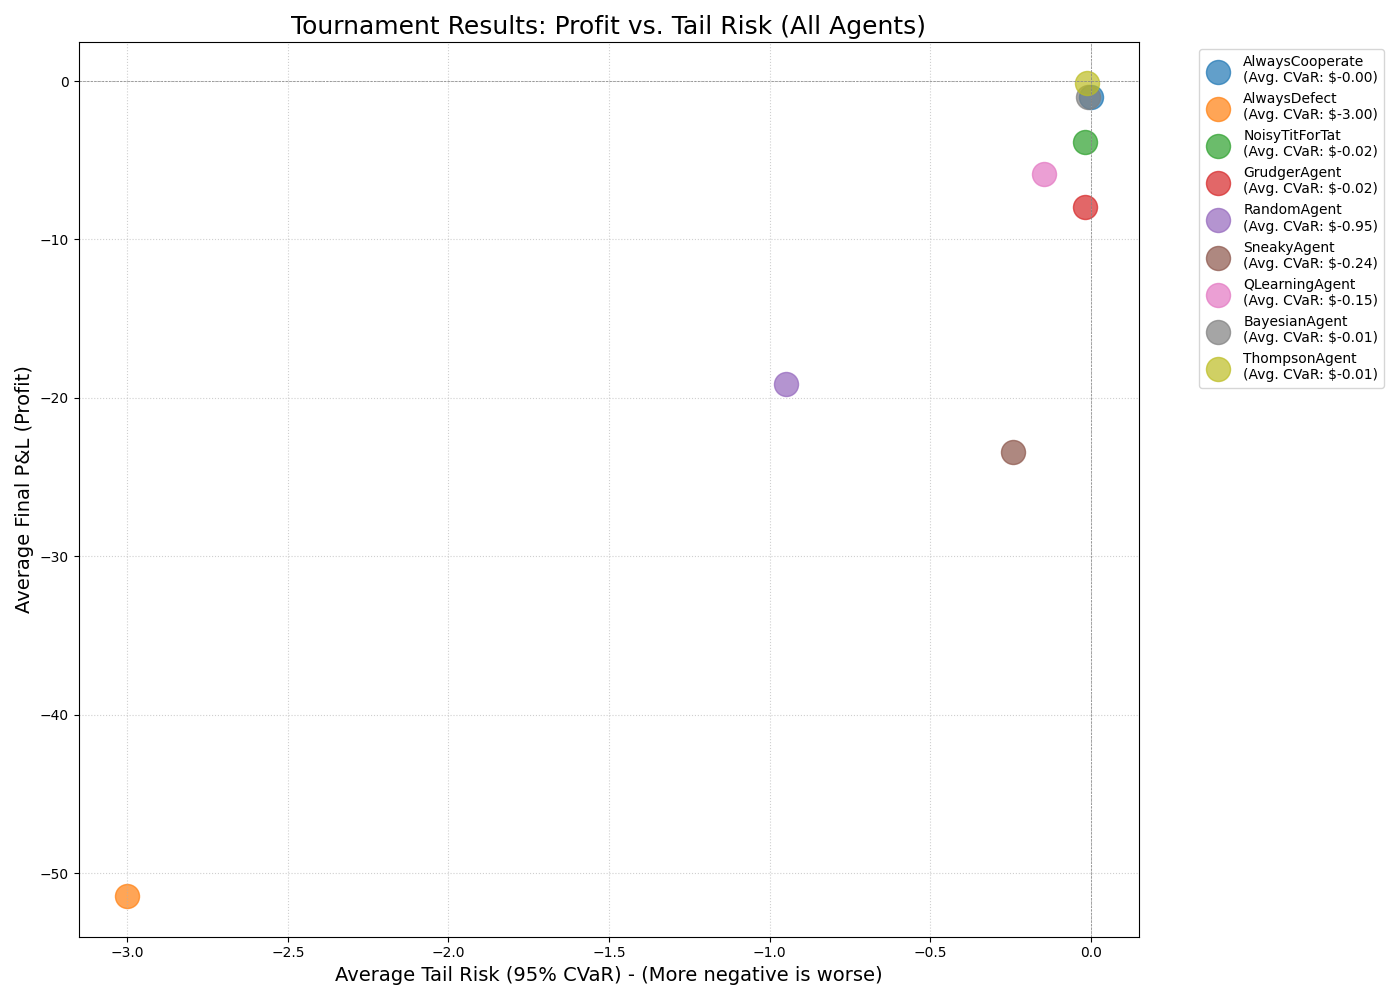
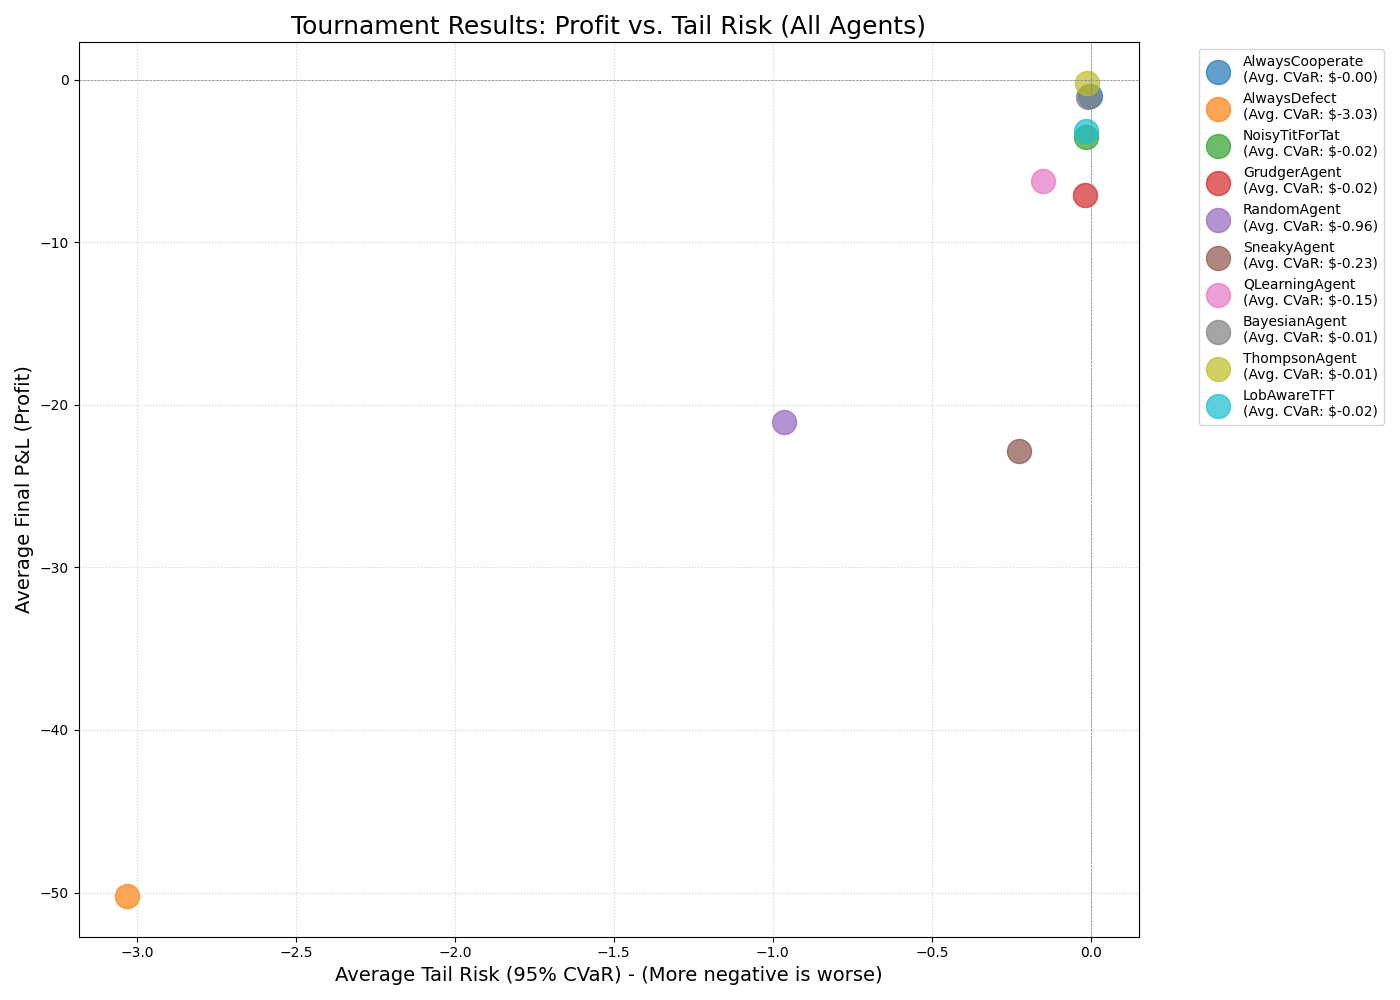
Feat: Implement full EvolutionarySimulator and run final experiment
This commit replaces the static round-robin tournament with a dynamic evolutionary simulation.

The new 'run_evolution.py' script introduces the 'EvolutionarySimulator' class, which runs a full tournament in each generation and uses the Replicator Equation to update population proportions over time.

- Implements a 'shifted' fitness (f' = f - f_min + 0.1) to correctly handle negative P&L values, preventing population collapse.
- Adds a 'mutation_rate' to the replicator dynamics to prevent deterministic extinction and ensure no strategy permanently dies.
- Adds the new 'LobAwareTFT' agent to the master competitor list.
- Generates the final 'evolution_plot.png' showing the population dynamics over 100 generations, which is the final result for the paper.

diff --git a/run_evolution.py b/run_evolution.py
@@ -1,0 +1,215 @@
+import numpy as np
+import matplotlib.pyplot as plt
+import pandas as pd
+import time
+import itertools
+from collections import namedtuple, defaultdict
+from abc import ABC, abstractmethod
+from scipy.stats import norm
+from main import (
+    Agent,
+    MarketSimulator,
+    Action,
+    NoisyTitForTat,
+    GrudgerAgent,
+    AlwaysDefect,
+    AlwaysCooperate,
+    BayesianAgent,
+    QLearningAgent,
+    ThompsonAgent,
+    RandomAgent,
+    SneakyAgent,
+    LobAwareTFT
+)
+try:
+    from fast_lob import LimitOrderBook
+    print("Successfully imported C++ LOB engine (fast_lob).")
+except ImportError:
+    print("FATAL ERROR: C++ (fast_lob) module not found.")
+    print("Please build the C++ module by running: pip install .")
+    exit()
+
+
+# -----------------------------------------------------------------
+# --- 3. THE EVOLUTIONARY SIMULATOR CLASS
+# -----------------------------------------------------------------
+
+class EvolutionarySimulator:
+    
+    def __init__(self, agent_classes: list, initial_lob_class, tick_size: int, start_price: int):
+        
+        self.agent_classes = agent_classes
+        self.lob_class = initial_lob_class
+        self.tick_size = tick_size
+        self.start_price = start_price
+        
+        self.population_proportions = {}
+        num_agents = len(agent_classes)
+        initial_share = 1.0 / (num_agents + 1e-9)
+        
+        for agent_class in agent_classes:
+            name = agent_class.__name__
+            self.population_proportions[name] = initial_share
+            
+        self.population_history = [self.population_proportions.copy()]
+        
+        self.agent_names = [cls.__name__ for cls in agent_classes]
+        self.agent_class_map = {cls.__name__: cls for cls in agent_classes}
+        base_agents = [cls for cls in agent_classes if cls not in [BayesianAgent, QLearningAgent, ThompsonAgent, LobAwareTFT]]
+        
+        self.suspect_zoo = [cls(agent_id=f"suspect_{cls.__name__}", latency=10) 
+                            for cls in base_agents]
+        
+        self.thompson_portfolio = [cls(agent_id=f"thompson_{cls.__name__}", latency=10) for cls in base_agents]
+
+    def _run_generation(self, rounds_per_matchup: int) -> dict:
+        
+        fitness_scores = {name: 0.0 for name in self.agent_names}
+        all_matchups = list(itertools.combinations(self.agent_names, 2))
+        
+        for (name_A, name_B) in all_matchups:
+            
+            (pnl_A, _), (pnl_B, _) = self._run_single_matchup(name_A, name_B, rounds_per_matchup)
+            
+            proportion_B = self.population_proportions[name_B]
+            fitness_scores[name_A] += pnl_A * proportion_B
+            
+            proportion_A = self.population_proportions[name_A]
+            fitness_scores[name_B] += pnl_B * proportion_A
+            
+        return fitness_scores
+
+    
+    def _run_single_matchup(self, name_A: str, name_B: str, num_rounds: int) -> tuple:
+        
+        class_A = self.agent_class_map[name_A]
+        class_B = self.agent_class_map[name_B]
+
+        agent_A, agent_B = None, None
+
+        if class_A == BayesianAgent:
+            agent_A = BayesianAgent(agent_id="Agent_A", latency=7.0, sus_agents=self.suspect_zoo)
+        elif class_A == ThompsonAgent:
+            agent_A = ThompsonAgent(agent_id="Agent_A", latency=5.0, sub_agents=self.thompson_portfolio)
+        elif class_A == QLearningAgent:
+            agent_A = QLearningAgent(agent_id="Agent_A", latency=15.0)
+        else: 
+            agent_A = class_A(agent_id="Agent_A", latency=10.0)
+
+        if class_B == BayesianAgent:
+            agent_B = BayesianAgent(agent_id="Agent_B", latency=7.0, sus_agents=self.suspect_zoo)
+        elif class_B == ThompsonAgent:
+            agent_B = ThompsonAgent(agent_id="Agent_B", latency=5.0, sub_agents=self.thompson_portfolio)
+        elif class_B == QLearningAgent:
+            agent_B = QLearningAgent(agent_id="Agent_B", latency=15.0)
+        else: 
+            agent_B = class_B(agent_id="Agent_B", latency=10.0)
+        
+        lob = self.lob_class()
+        simulator = MarketSimulator(
+            agents=[agent_A, agent_B],
+            book=lob,
+            tick_size=self.tick_size,
+            start_price=self.start_price
+        )
+        
+        simulator.run_simulation(num_rounds=num_rounds)
+        pnl_A = sum(simulator.pnl_history["Agent_A"]) / 100.0
+        pnl_B = sum(simulator.pnl_history["Agent_B"]) / 100.0
+        
+        return (pnl_A, 0.0), (pnl_B, 0.0)
+
+
+    def run(self, num_generations: int, rounds_per_matchup: int, mutation_rate: float = 0.01):
+        print(f"--- Starting Evolutionary Simulation ---")
+        print(f"Generations: {num_generations}, Rounds: {rounds_per_matchup}, Mutation: {mutation_rate*100}%")
+        
+        for gen in range(num_generations):
+            fitness_map = self._run_generation(rounds_per_matchup)
+            min_fitness = min(fitness_map.values())
+            shifted_fitness_map = {name: (fitness - min_fitness + 0.1) for name, fitness in fitness_map.items()}
+            avg_pop_fitness = sum(
+                shifted_fitness_map[name] * self.population_proportions[name]
+                for name in self.agent_names
+            )
+            new_proportions = {}
+            for name in self.agent_names:
+                shifted_fitness = shifted_fitness_map.get(name, 0.1)
+                old_proportion = self.population_proportions[name]
+                
+                if avg_pop_fitness == 0:
+                    new_proportions[name] = old_proportion
+                else:
+                    new_proportions[name] = old_proportion * (shifted_fitness / avg_pop_fitness)
+            mutated_proportions = {}
+            num_agents = len(self.agent_names)
+            mutation_share_per_agent = mutation_rate / num_agents
+
+            for name in self.agent_names:
+                taxed_proportion = new_proportions.get(name, 0.0) * (1 - mutation_rate)
+                mutated_proportions[name] = taxed_proportion + mutation_share_per_agent
+            total = sum(mutated_proportions.values())
+            for name in mutated_proportions:
+                mutated_proportions[name] /= total
+            self.population_proportions = mutated_proportions
+            self.population_history.append(mutated_proportions.copy())
+            
+            if (gen + 1) % (num_generations // 10 or 1) == 0:
+                print(f"Generation {gen+1}/{num_generations} complete.")
+        
+        print("Evolutionary simulation complete.")
+
+
+# -----------------------------------------------------------------
+# --- 4. MAIN SCRIPT TO RUN THE EVOLUTION
+# -----------------------------------------------------------------
+if __name__ == "__main__":
+    start_time = time.time()
+    all_agent_classes = [
+        AlwaysCooperate,
+        AlwaysDefect,
+        NoisyTitForTat,
+        GrudgerAgent,
+        RandomAgent,
+        SneakyAgent,
+        QLearningAgent,
+        BayesianAgent,
+        ThompsonAgent,
+        LobAwareTFT
+    ]
+    evo_sim = EvolutionarySimulator(
+        agent_classes=all_agent_classes,
+        initial_lob_class=LimitOrderBook,
+        tick_size=1,
+        start_price=10000
+    )
+    NUM_GENERATIONS = 100
+    ROUNDS_PER_MATCHUP = 50
+    evo_sim.run(
+        num_generations=NUM_GENERATIONS, 
+        rounds_per_matchup=ROUNDS_PER_MATCHUP,
+        mutation_rate=0.01 # 1% mutation
+    )
+    total_time = time.time() - start_time
+    print(f"\n--- EVOLUTION COMPLETE (Total time: {total_time:.2f}s) ---")
+    history_df = pd.DataFrame(evo_sim.population_history)
+    print("Generating population plot...")
+    plt.figure(figsize=(14, 8))
+    plt.stackplot(
+        history_df.index,
+        [history_df[col] for col in history_df.columns], 
+        labels=history_df.columns
+    )
+    plt.title("Evolution of Agent Population Over Time", fontsize=18)
+    plt.xlabel("Generation", fontsize=14)
+    plt.ylabel("Population Proportion (%)", fontsize=14)
+    plt.legend(bbox_to_anchor=(1.05, 1), loc='upper left')
+    plt.grid(True, linestyle=':', alpha=0.6)
+    plt.tight_layout()
+    plt.savefig("evolution_plot.png")
+    print("Final evolution plot saved as 'evolution_plot.png'.")
+    print("\n--- Final Population ---")
+    final_pop = evo_sim.population_history[-1]
+    sorted_pop = sorted(final_pop.items(), key=lambda item: item[1], reverse=True)
+    for agent_name, proportion in sorted_pop:
+        print(f"  {agent_name}: {proportion * 100:.2f}%")

diff --git a/main.py b/main.py
@@ -235,6 +235,19 @@ class RandomAgent(Agent):
     def learn(self, reward: float, new_lob_state: dict):
         pass
 
+class LobAwareTFT(NoisyTitForTat):
+    """An agent that overrides TFT logic if it detects a market imbalance."""
+    def play(self, lob_state: dict, opponent_last_action: Action = None) -> Action:
+        state = self._get_current_state(lob_state)
+        if state[1] == 'Ask_Heavy':
+            return Action(type='MARKET', price_level=0, size=5)
+        elif state[1] == 'Bid_Heavy':
+            return Action(type='MARKET', price_level=0, size=5)
+        else:
+            return super().play(lob_state, opponent_last_action)
+    def _get_current_state(self, lob_state: dict) -> tuple:
+        return lob_state.get('discretized_state', ('Medium', 'Balanced'))
+
 # --- 4. ADVANCED LEARNING AGENTS ---
 class QLearningAgent(Agent):
     def __init__(self, agent_id: str, latency: float = 0.0, epsilon: float = 0.1, alpha: float = 0.1, gamma: float = 0.9):

diff --git a/run_experiment.py b/run_experiment.py
@@ -13,6 +13,7 @@ from main import (
     BayesianAgent,
     QLearningAgent,
     ThompsonAgent,
+    LobAwareTFT,
     calculate_var,
     calculate_cvar
 )
@@ -94,7 +95,6 @@ def run_matchup(agent_a_class, agent_b_class):
         var_B = calculate_var(pnl_B_dollars, 5)
         matchup_results_B['cvar'].append(calculate_cvar(pnl_B_dollars, var_B))
 
-    # --- Return the AVERAGE results for this whole matchup ---
     avg_pnl_A = np.mean(matchup_results_A['final_pnl'])
     avg_cvar_A = np.mean(matchup_results_A['cvar'])
     avg_pnl_B = np.mean(matchup_results_B['final_pnl'])
@@ -117,7 +117,8 @@ if __name__ == "__main__":
         SneakyAgent,
         QLearningAgent,
         BayesianAgent,
-        ThompsonAgent
+        ThompsonAgent,
+        LobAwareTFT
     ]
 
     all_matchups = list(itertools.combinations(agent_classes, 2))
